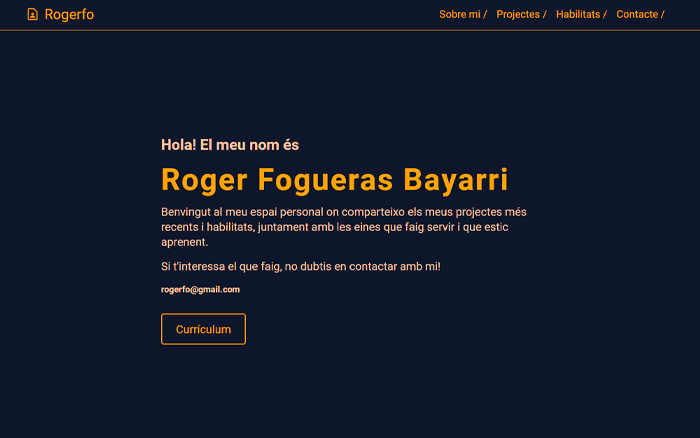
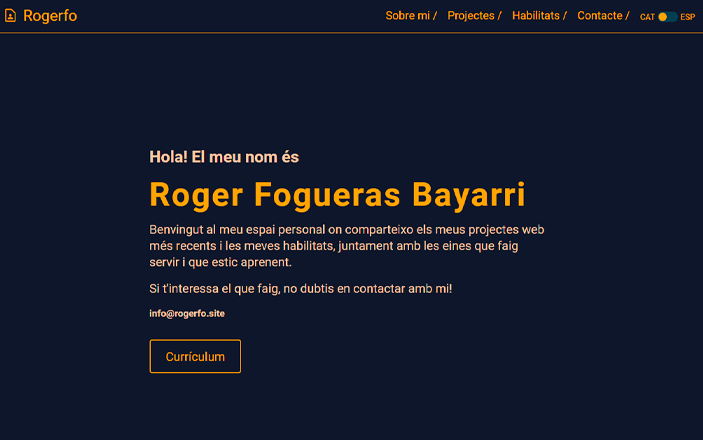
publicada

Changed region(s): [[0.21, 0.2968, 0.78, 0.8607], [0.0, 0.0, 1.0, 0.089]]

diff --git a/css/style.css b/css/style.css
@@ -27,9 +27,8 @@ body {
     padding: 0 20px;
 }
 
-#about, #projects, #skills, #contact{
-    scroll-margin-top: var(--header-height);
-}
+#about, #projects, #skills{padding-bottom: 50px;}
+#about, #projects, #skills, #contact{scroll-margin-top: var(--header-height);}
 
 .logo > a {
     text-decoration: none;
@@ -38,9 +37,7 @@ body {
     align-items: center;
     gap:10px;
 }
-.logo span.user, .logo span.contact{
-    font-size: 30px;  
-}
+.logo span.user, .logo span.contact{font-size: 30px;}
 
 /*HEADER*/
 header {
@@ -77,28 +74,23 @@ header nav ul.menu a {
     font-weight: revert;
     padding-bottom: 10px;;
 }
-header ul a:hover {color:var(--secondary-color)}
+header ul a:hover {color:var(--emfasy-color)}
 
-header nav ul.menu a:hover{
-    color: var(--secondary-color);}
+header nav ul.menu a:hover{color: var(--emfasy-color);}
 
 .lang{
     display: flex;
     align-items: center ;
     justify-content: space-between;
 }
-.lang span {
-   padding-top: 5px;
-}
+.lang span {padding-top: 5px;}
 .check {
     position: relative;
     width: 40px;
     margin: 0 5px;
 }
 
-.check:hover{
-    cursor: pointer;
-}
+.check:hover{cursor: pointer;}
 
 .check::before{
     content: "";
@@ -125,11 +117,7 @@ header nav ul.menu a:hover{
     left: 20px;
     border: 2px solid #254252;
 }
-.check:checked::before{
-    background-color: #254252;
-    
-
-}
+.check:checked::before{background-color: #254252;}
 
 /*MAIN*/
 main {
@@ -138,12 +126,8 @@ main {
 }
 
 .emfasis  {color: var(--emfasy-color);}
-.summary .info{
-    padding: calc(var(--header-height) + 200px) 50px 200px;
-}
-.summary .text {
-    margin-bottom: 30px;
-}
+.summary .info{padding: calc(var(--header-height) + 200px) 50px 200px;}
+.summary .text {margin-bottom: 30px;}
 
 .info {
     padding: 20px 50px 50px;
@@ -209,19 +193,17 @@ a.btn:hover {
     column-gap: 60px;
 }
 
-.invert {
-    filter: invert(100%);
-}
+.invert {filter: invert(100%);}
 .about img {
     width: auto; 
     max-height: 410px; 
     border-radius:5px
 }
-.about .text a, .projects .description a {
+.about .text a, .projects a {
     text-decoration: none;
     color: var(--primary-color);
 }
-.about .text a:hover, .projects .description a:hover {
+.about .text a:hover, .projects a:hover {
     text-decoration: revert;
     color: var(--emfasy-color);
 }
@@ -255,9 +237,7 @@ a.btn:hover {
     margin: 0;
     font-size: 1.7rem;
 }
-.projects .cards figure {
-    margin: 10px 0;
-}
+.projects .cards figure {margin: 10px 0;}
 
 .projects .cards img {
     width: 100%;
@@ -265,9 +245,7 @@ a.btn:hover {
     border-radius: 5px;
 }
 
-.projects figure img{
-    transition: all .4s;
-}
+.projects figure img{transition: all .4s;}
 
 .projects figure img:hover{
     transition: all .4s;
@@ -289,17 +267,8 @@ a.btn:hover {
     width: 30px;
     height: auto;
 }
- .projects p {
-    margin:10px 0;
- }
-.project-card h4 a {
-    text-decoration: none;
-    color: var(--primary-color)
-}
+ .projects p {margin:10px 0;}
 
-.project-card h4 a:hover {
-    color: var(--secondary-color);
-}
 
 /*Skills*/
 .skills .content {
@@ -308,9 +277,7 @@ a.btn:hover {
     justify-content: space-between;
 }
 
-.skills img {
-    transition: all .4s;
-}
+.skills img {transition: all .4s;}
 .skills img:hover{
     transition: all .4s;
     transform: rotate(5deg);
@@ -336,9 +303,7 @@ footer .contact {
     align-items: center;
     border-top: 2px solid #fca311;
 }
-footer .contact p {
-    color: var(--secondary-color);
-}
+footer .contact p {color: var(--secondary-color);}
 
 footer .social {
     display: flex;
@@ -351,9 +316,7 @@ footer .social a {
     font-size: 1.5rem;
 }
 
-footer .social a:hover {
-    color:var(--secondary-color)
-}
+footer .social a:hover {color:var(--emfasy-color);}
 
 footer .credits{
     width: 100%;
@@ -369,15 +332,10 @@ footer .contact a.btn {
 }
 
 @media  (max-width:1140px){
-    header nav ul.menu a {
-        
-        font-size: 20px;
-    }
-    .about .content {
-        grid-template-columns: 1fr;
-    }
+    header nav ul.menu a {font-size: 20px;}
+    .about .content {grid-template-columns: 1fr;}
     .about .content .text { order:2;}
-    .about .content figure {max-width: 50%; margin: 0 auto; margin-bottom: 30px;}
+    .about .content figure {max-width: revert; margin: 0 auto; margin-bottom: 30px;}
     .projects .content .cards {
         grid-template-columns: repeat(2, 1fr);
         gap: 20px 15px;
@@ -386,9 +344,7 @@ footer .contact a.btn {
         width: auto;
         height: 40px;
     }
-    .skills .skill-list {
-        column-gap: 5px;
-    }
+    .skills .skill-list {column-gap: 5px;}
     .summary .info, .contact.info{width: 80%;}
 
 
@@ -396,9 +352,7 @@ footer .contact a.btn {
 @media  (max-width:800px){
     
     /*Burguer button*/    
-    header {
-        padding: 0px;
-    }
+    header {padding: 0px;}
     header nav {display:revert;}
     header .container {padding: 0;}
     header nav ul {
@@ -414,7 +368,7 @@ footer .contact a.btn {
         border-bottom: 5px solid #28293e;
     }
     header nav ul.menu a:hover{
-        color: var(--secondary-color);
+        color: var(--primary-color);
         border-bottom: 5px solid #fca311;
     }
     header .logo {
@@ -476,15 +430,11 @@ footer .contact a.btn {
         top:0;
     }
 
-    #about, #projects, #skills, #contact{
-        scroll-margin-top: calc(var(--header-height) + 300px);
-    }
+    #about, #projects, #skills, #contact{scroll-margin-top: calc(var(--header-height) + 360px);}
 
-    .info {
-        padding: 20px 0px 50px;
-    }
+    .info {padding: 20px 0px 50px;}
     .summary .info{
-        padding: calc(var(--header-height) + 100px) 0 100px;
+        padding: calc(var(--header-height) + 0px) 0 100px;
     }
     .summary .info, .info{width: 100%;}
 
@@ -492,13 +442,6 @@ footer .contact a.btn {
         grid-template-columns: 1fr;
         gap: 30px;
     }
-    .skills .content {
-        flex-direction: column;
-    }
-
+    .skills .content {flex-direction: column;}
     .lang{justify-content: center;padding: 15px 0 20px;}
-    .lang-switch {
-        order: 0;
-    }
-
 }

diff --git a/es/index.html b/es/index.html
@@ -27,13 +27,14 @@
                 <il><a href="#projects">Proyectos /</a></il>
                 <il><a href="#skills">Habilidades /</a></il>
                 <il><a href="#contact" class="emfasis">Contacto /</a></il>
-                <li>
+                <li class="lang-switch">
                     <div class="lang">
                         <span class="cat">CAT</span>
                         <input type="checkbox" class="check" checked>
                         <span class="es">ESP</span>
                     </div>
-                </li>                    
+                </li>  
+                  
             </ul>
         </nav>
     </header>
@@ -44,7 +45,7 @@
                 <h1 class="principal-name">Roger Fogueras Bayarri</h1>
                 <div class="text">
                     <p class="presentation">
-                        Bienvenido a mi espacio personal donde comparto mis proyectos más recientes i habilidades, juntamente con las herramientas que utilizo i las que estoy aprendiendo.
+                        Bienvenido a mi espacio personal donde comparto mis proyectos web más recientes y mis habilidades, juntamente con las herramientas que utilizo y las que estoy aprendiendo.
                     </p>
                     <p>
                         Si te interesa lo que hago, no dudes en contactar conmigo!
@@ -204,9 +205,9 @@
                             <span class="material-symbols-outlined">stars</span>
                         </h3>
                         <div class="skill-list">
-                            <span><img src="../img/wordpress.png" alt="WordPress" title="WordPress"></span>
                             <span><img src="../img/html5.png" alt="HTML5" title="HTML5"></span>
                             <span><img src="../img/css-3.png" alt="CSS3" title="CSS3"></span>
+                            <span><img src="../img/wordpress.png" alt="WordPress" title="WordPress"></span>
                             
                         </div>
                     </div>
@@ -226,10 +227,11 @@
                             <span class="material-symbols-outlined">stars</span>
                         </h3>
                         <div class="skill-list"> 
-                            <span><img src="../img/photoshop.png" alt="Adobe Photoshop" title="Adobe Photoshop"></span>
                             <span><img src="../img/git.png" alt="Git" title="Git"></span>
-                            <span><img src="../img/figma_logo.png" alt="Figma" title="Figma"></span>
+                            <span><img class="invert" src="../img/github.png" alt="GitHub" title="GitHub"></span>
                             <span><img src="../img/javascript.png" alt="Javascript" title="Javascript"></span>
+                            <span><img src="../img/figma_logo.png" alt="Figma" title="Figma"></span>
+                            <span><img src="../img/photoshop.png" alt="Ad obe Photoshop" title="Adobe Photoshop"></span>
                         </div>
                     </div>
                 </div>
@@ -241,12 +243,13 @@
         <h2>info@rogerfo.site</h2>
         <div class="social">
             <a href="https://www.linkedin.com/in/roger-fogueras-b72a99258/"><i class="fa-brands fa-linkedin"></i></a>
-            <a href="mailto:rogerfo@gmail.com"><i class="fa-solid fa-envelope"></i></a>
+            <a href="mailto:info@rogerfo.site"><i class="fa-solid fa-envelope"></i></a>
+            <a href="https://github.com/Rogerfog/" target="_blank"><i class="fa-brands fa-github"></i></a>
         </div>
         <a href="https://drive.google.com/file/d/1Vw6vIIbGM1sneo0KwPDKWe12a-9vsu0I/view?usp=share_link" alt="currículum Roger Fogueras" target="_blank" class="btn cv">Curriculum</a>
     </div>
     <div class="credits">
-        Disseño y creación por Roger Fogueras Bayarri © 2023
+        Diseño y creación por Roger Fogueras Bayarri © 2023
     </div>
     </footer>
     <script src="../js/app.js"></script>

diff --git a/index.html b/index.html
@@ -33,7 +33,7 @@
                         <input type="checkbox" class="check">
                         <span class="es">ESP</span>
                     </div>
-                </li>                   
+                </li>   
             </ul>
         </nav>
     </header>
@@ -44,7 +44,7 @@
                 <h1 class="principal-name">Roger Fogueras Bayarri</h1>
                 <div class="text">
                     <p class="presentation">
-                        Benvingut al meu espai personal on comparteixo els meus projectes més recents i habilitats, juntament amb les eines que faig servir i que estic aprenent.
+                        Benvingut al meu espai personal on comparteixo els meus projectes web més recents i les meves habilitats, juntament amb les eines que faig servir i que estic aprenent.
                     </p>
                     <p>
                         Si t'interessa el que faig, no dubtis en contactar amb mi!
@@ -62,7 +62,7 @@
                 <div class="content">
                     <div class="text">
                         <p>
-                            Hola! Em dic Roger i soc un apassionat del disseny i el desenvolupament web. 
+                            Hola! Em dic Roger i m'apassiona el disseny i el desenvolupament web. 
                             Em considero una persona responsable, generosa i disposada a ajudar sempre que sigui necessari. 
                             Un dels meus punts forts és la resiliència davant determinades situacions.
                         </p>
@@ -204,9 +204,9 @@
                             <span class="material-symbols-outlined">stars</span>
                         </h3>
                         <div class="skill-list">
-                            <span><img src="img/wordpress.png" alt="WordPress" title="WordPress"></span>
                             <span><img src="img/html5.png" alt="HTML5" title="HTML5"></span>
                             <span><img src="img/css-3.png" alt="CSS3" title="CSS3"></span>
+                            <span><img src="img/wordpress.png" alt="WordPress" title="WordPress"></span>
                             
                         </div>
                     </div>
@@ -226,10 +226,11 @@
                             <span class="material-symbols-outlined">stars</span>
                         </h3>
                         <div class="skill-list"> 
-                            <span><img src="img/photoshop.png" alt="Adobe Photoshop" title="Adobe Photoshop"></span>
                             <span><img src="img/git.png" alt="Git" title="Git"></span>
-                            <span><img src="img/figma_logo.png" alt="Figma" title="Figma"></span>
+                            <span><img class="invert" src="img/github.png" alt="GitHub" title="GitHub"></span>
                             <span><img src="img/javascript.png" alt="Javascript" title="Javascript"></span>
+                            <span><img src="img/figma_logo.png" alt="Figma" title="Figma"></span>
+                            <span><img src="img/photoshop.png" alt="Ad obe Photoshop" title="Adobe Photoshop"></span>
                         </div>
                     </div>
                 </div>
@@ -241,7 +242,8 @@
         <h2>info@rogerfo.site</h2>
         <div class="social">
             <a href="https://www.linkedin.com/in/roger-fogueras-b72a99258/"><i class="fa-brands fa-linkedin"></i></a>
-            <a href="mailto:rogerfo@gmail.com"><i class="fa-solid fa-envelope"></i></a>
+            <a href="mailto:info@rogerfo.site"><i class="fa-solid fa-envelope"></i></a>
+            <a href="https://github.com/Rogerfog/" target="_blank"><i class="fa-brands fa-github"></i></a>
         </div>
         <a href="https://drive.google.com/file/d/1Vw6vIIbGM1sneo0KwPDKWe12a-9vsu0I/view?usp=share_link" alt="currículum Roger Fogueras" target="_blank" class="btn cv">Currículum</a>
     </div>
